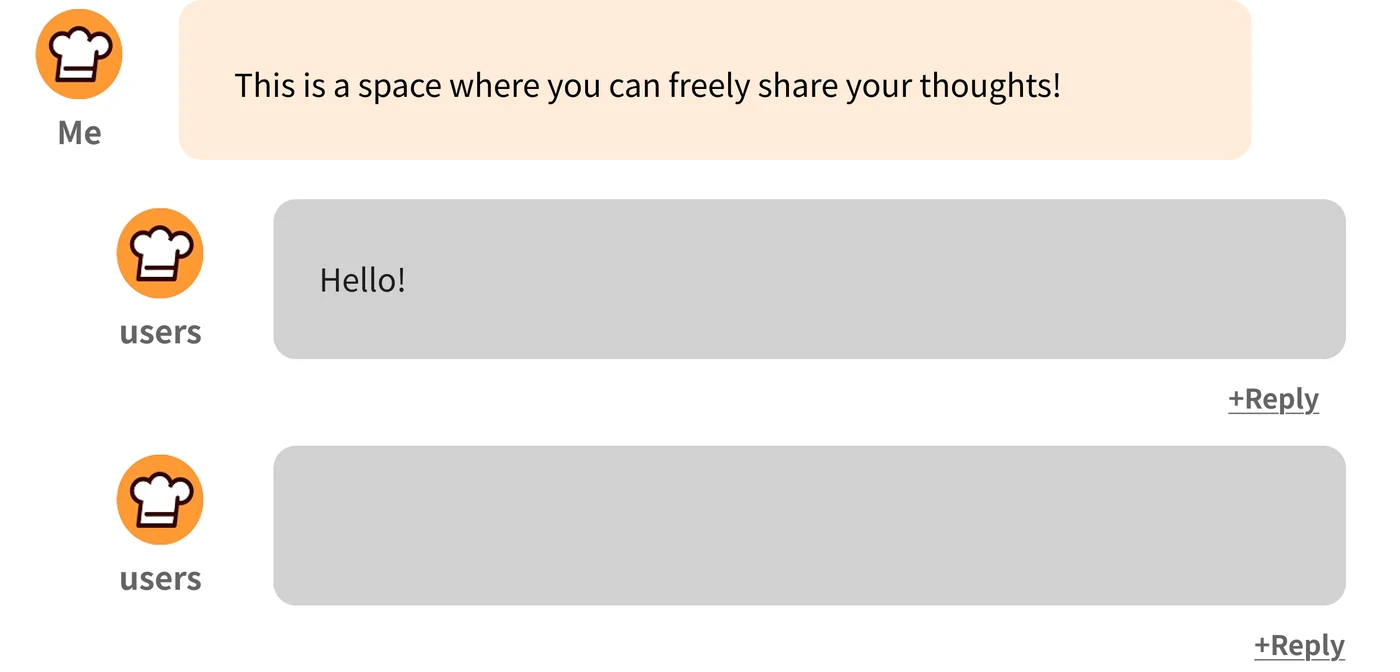
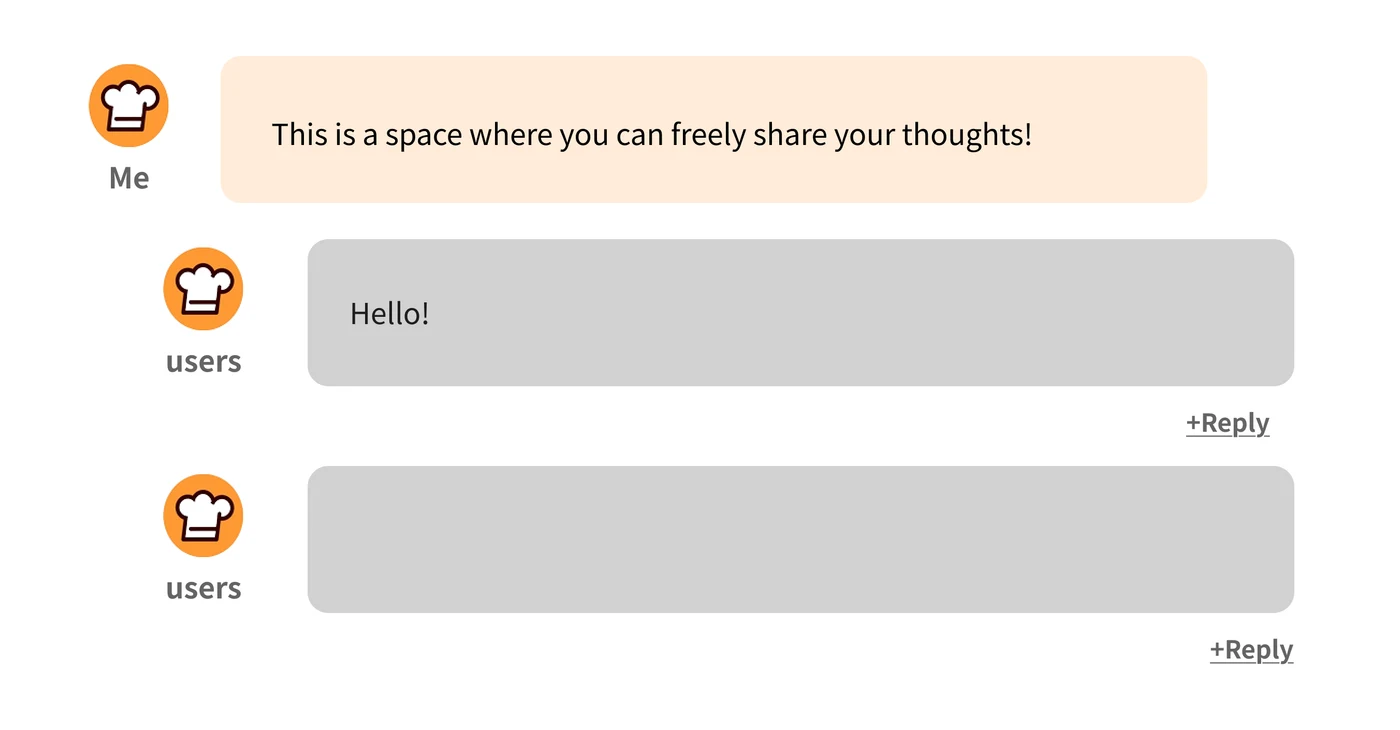
New slogan, new Rizsq designs, breathing room around tight crops
- Home slogan: I design the connection between people and technology.
- Rizsq: the three new designs replace the old two
- PROFITKEY AI Comment and glossary crops, and the Cookpad filter panel and
  comment thread, get a white margin so the panel no longer touches the edge

Changed region(s): [[0.0, 0.0, 0.9829, 0.5312], [0.0614, 0.5625, 0.9829, 0.9062], [0.8907, 0.9375, 0.9521, 1.0]]

diff --git a/src/data/projects.ts b/src/data/projects.ts
@@ -329,7 +329,7 @@ export const projects: Project[] = glueAll<Project[]>([
             body: [
               'Each stock page summarises growth, profitability, stability and financial soundness in plain sentences, next to the detailed figures.',
             ],
-            figures: [screen('profitkey-crop-ai-comment', 'AI Comment panel summarising growth, profitability, stability and financial soundness in four plain sentences.', 'AI Comment on the stock detail page.', 1220, 290)],
+            figures: [screen('profitkey-crop-ai-comment', 'AI Comment panel summarising growth, profitability, stability and financial soundness in four plain sentences.', 'AI Comment on the stock detail page.', 1284, 354)],
           },
           {
             kind: 'feature',
@@ -339,7 +339,7 @@ export const projects: Project[] = glueAll<Project[]>([
             body: [
               'Terms such as PER, PBR, EPS and dividends carry a “?” mark. Hovering shows a short explanation, making unfamiliar terms easier for beginners.',
             ],
-            figures: [screen('profitkey-crop-glossary', 'Key indicator table: 52 week high and low, PER, PBR, EPS, BPS and dividends, with “?” marks beside the financial terms.', 'Indicators with “?” glossary marks.', 600, 340)],
+            figures: [screen('profitkey-crop-glossary', 'Key indicator table: 52 week high and low, PER, PBR, EPS, BPS and dividends, with “?” marks beside the financial terms.', 'Indicators with “?” glossary marks.', 664, 404)],
           },
           {
             kind: 'feature',
@@ -989,7 +989,7 @@ export const projects: Project[] = glueAll<Project[]>([
             ],
             figures: [
               { ...cook('search-bar', 'Search bar with an ingredients field, a highlighted filter button and an orange Search button.', 'Search bar with the filter button.', 1600, 143), frameless: true },
-              cook('filter-panel', 'Filter panel: ingredients, cooking time from within 10 minutes to over an hour, difficulty, type of dish and an allergy field.', 'Filter panel.', 1600, 532),
+              cook('filter-panel', 'Filter panel: ingredients, cooking time from within 10 minutes to over an hour, difficulty, type of dish and an allergy field.', 'Filter panel.', 1600, 606),
             ],
           },
           {
@@ -1001,7 +1001,7 @@ export const projects: Project[] = glueAll<Project[]>([
             body: [
               'Replies sit under the comment they answer, so a question and its answers stay together. This makes discussions easier to follow and questions more likely to get an answer.',
             ],
-            figures: [cook('comments', 'Comment thread: my comment highlighted in peach, with replies from other users nested below and Reply links.', 'Comment thread with replies.', 1400, 672)],
+            figures: [cook('comments', 'Comment thread: my comment highlighted in peach, with replies from other users nested below and Reply links.', 'Comment thread with replies.', 1400, 730)],
           },
         ],
       },

diff --git a/src/data/volunteer.ts b/src/data/volunteer.ts
@@ -17,16 +17,22 @@ export const volunteer = glueAll({
   ],
   photos: [
     {
-      src: '/images/rizsq/rizsq-1.webp',
-      alt: 'Rizsq banner: a farmer gathering harvested rice in a field, with the Rizsq logo and the line “Every harvest deserves a fair price”.',
+      src: '/images/rizsq/rizsq-harvest.webp',
+      alt: 'Rizsq banner: a farmer carrying a bundle of rice across a field at sunset, with the Rizsq logo and the line “Every harvest deserves a fair price”.',
       width: 1600,
       height: 900,
     },
     {
-      src: '/images/rizsq/rizsq-2.webp',
-      alt: 'Rizsq post: a smiling farmer with a hoe in a green field, outlined in green, above the Rizsq logo.',
+      src: '/images/rizsq/rizsq-traditions.webp',
+      alt: 'Rizsq post on dark green: women washing in a canal beside a man checking his phone on a dirt road, with the line “Traditions must be side-by-side with technology, not against”.',
+      width: 1600,
+      height: 900,
+    },
+    {
+      src: '/images/rizsq/rizsq-farmer.webp',
+      alt: 'Rizsq post: a woman carrying her sleeping baby on her back while tending young plants in a field, under the Rizsq logo and a yellow wheat motif.',
       width: 1080,
-      height: 1350,
+      height: 1080,
     },
   ],
 })

diff --git a/src/data/site.ts b/src/data/site.ts
@@ -23,7 +23,7 @@ export const site = glueAll({
   socials: [{ label: 'LinkedIn', url: 'https://www.linkedin.com/in/sujin-youn-58401118b/' }] satisfies SocialLink[],
 
   // Slogan under the "portfolio" heading on Home.
-  slogan: 'I design with purpose, for people.',
+  slogan: 'I design the connection between people and technology.',
   // a quieter line under the slogan on Home
   subline: '6 years in network engineering. Now designing better digital experiences.',
 
